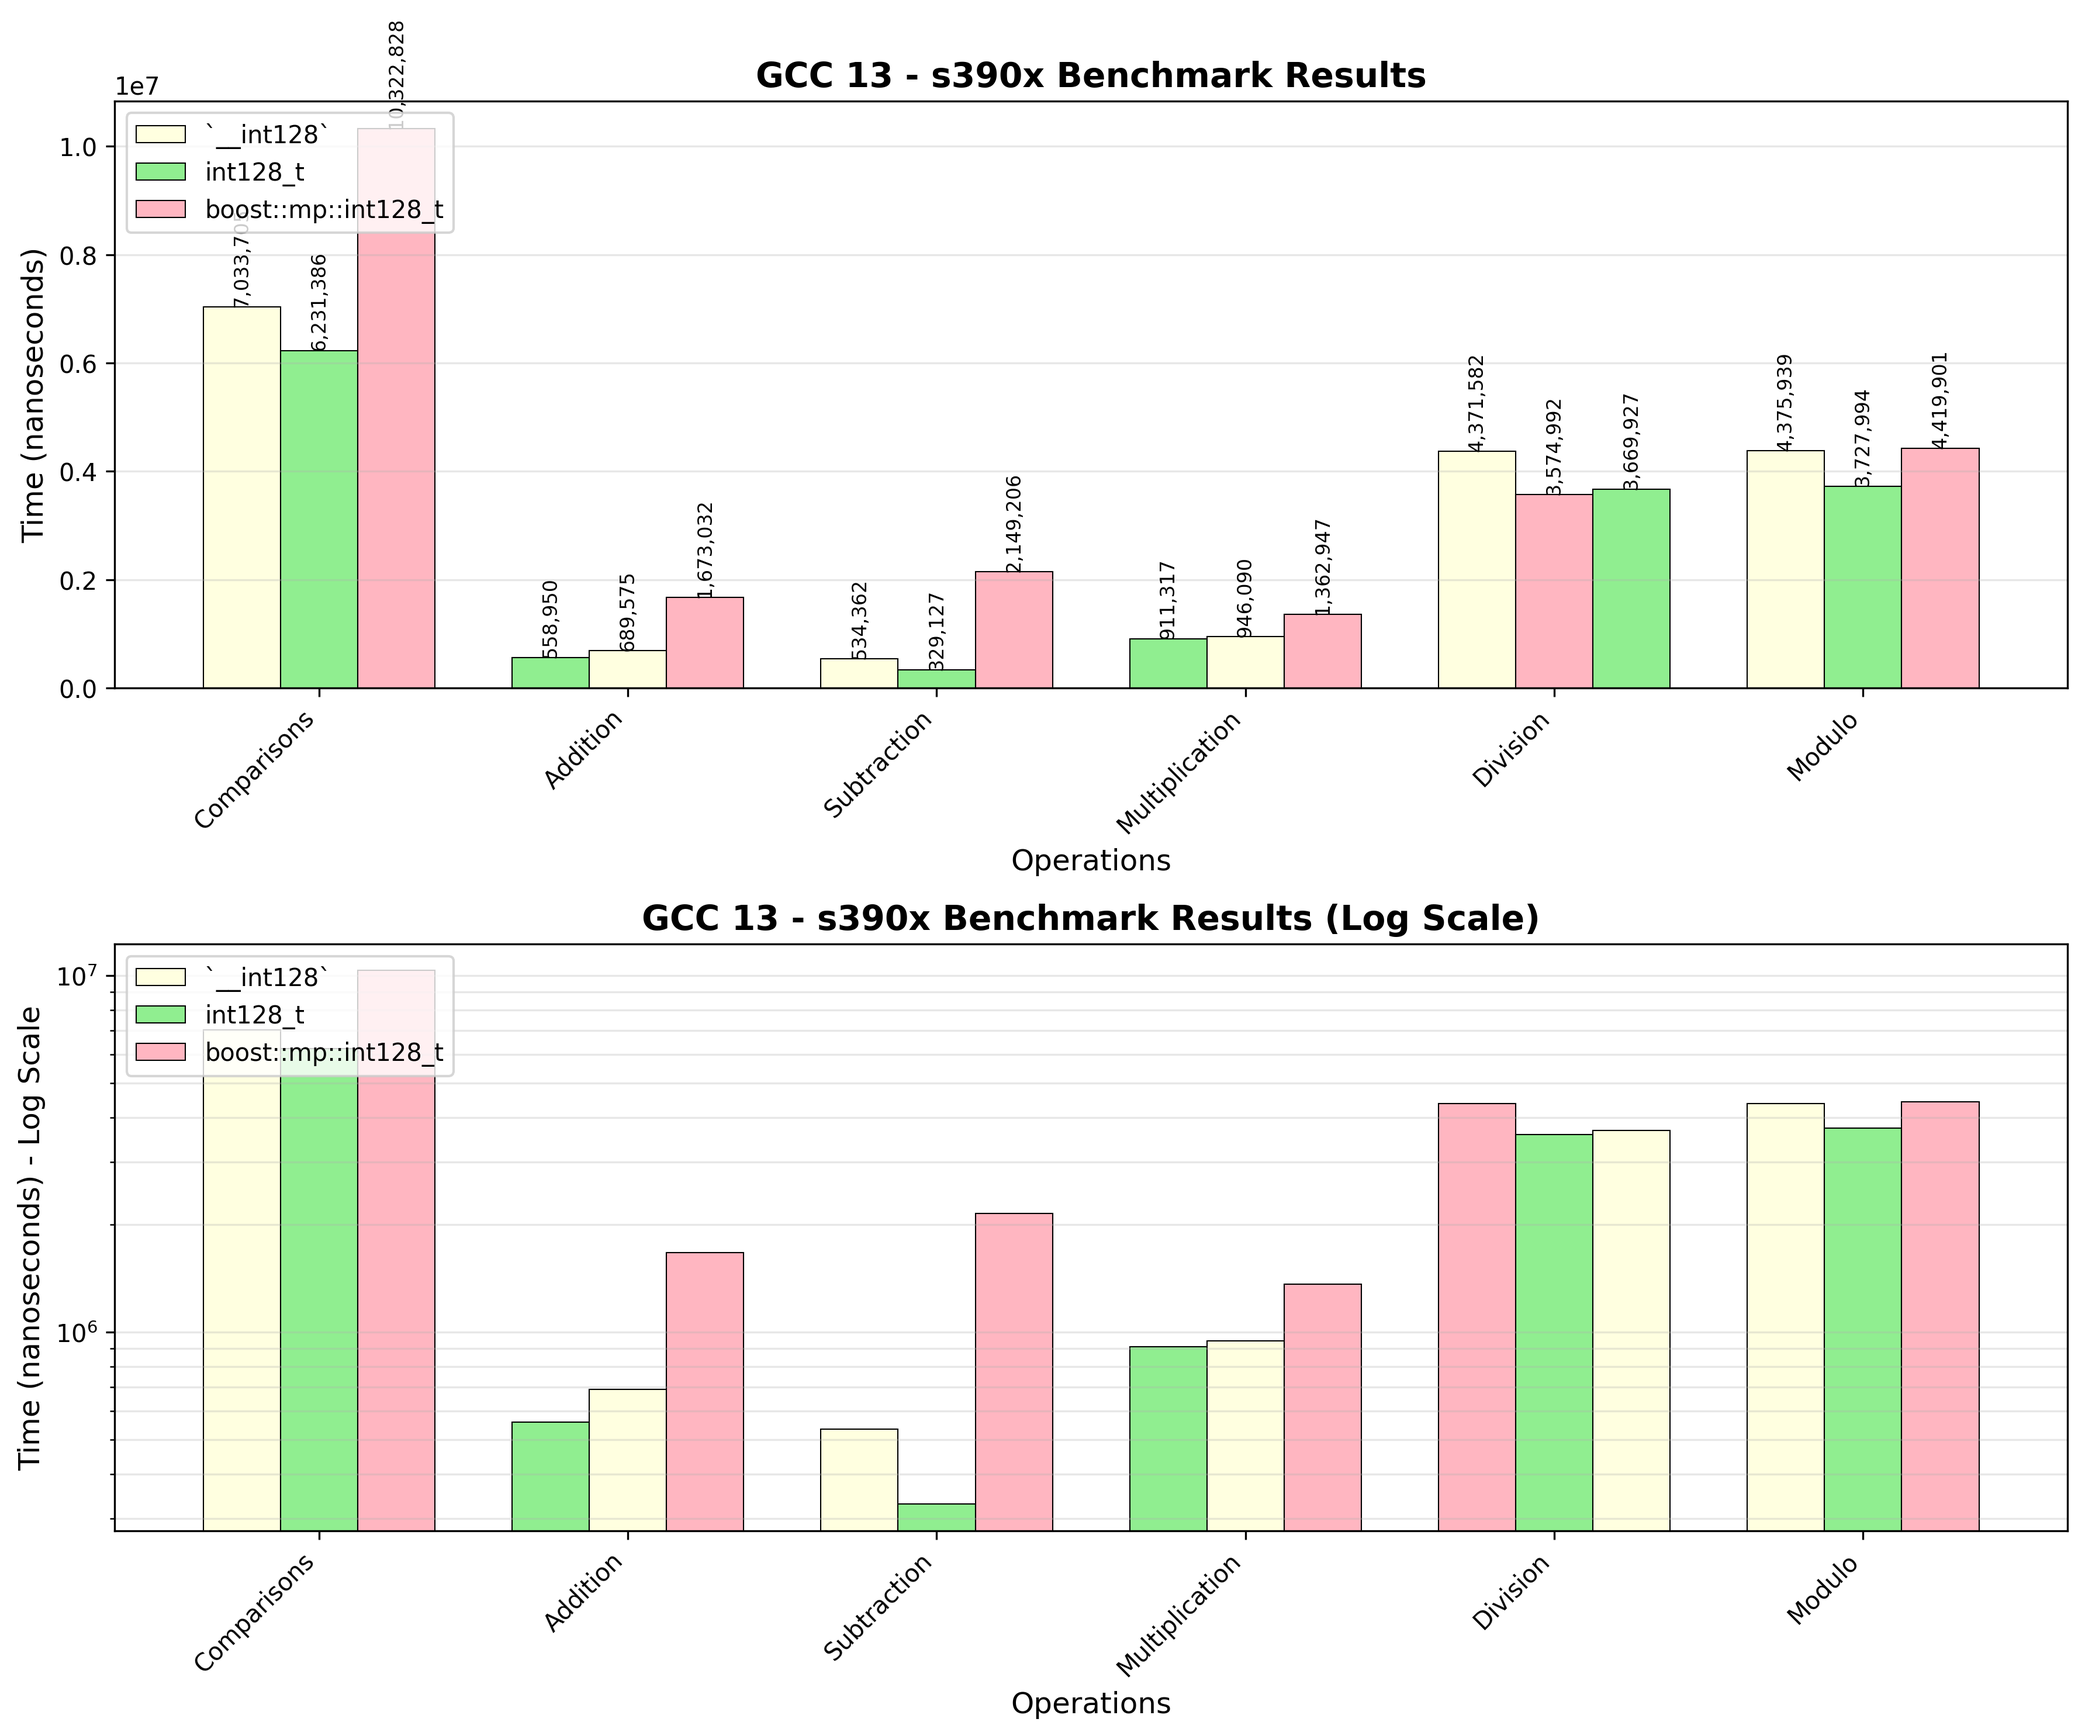
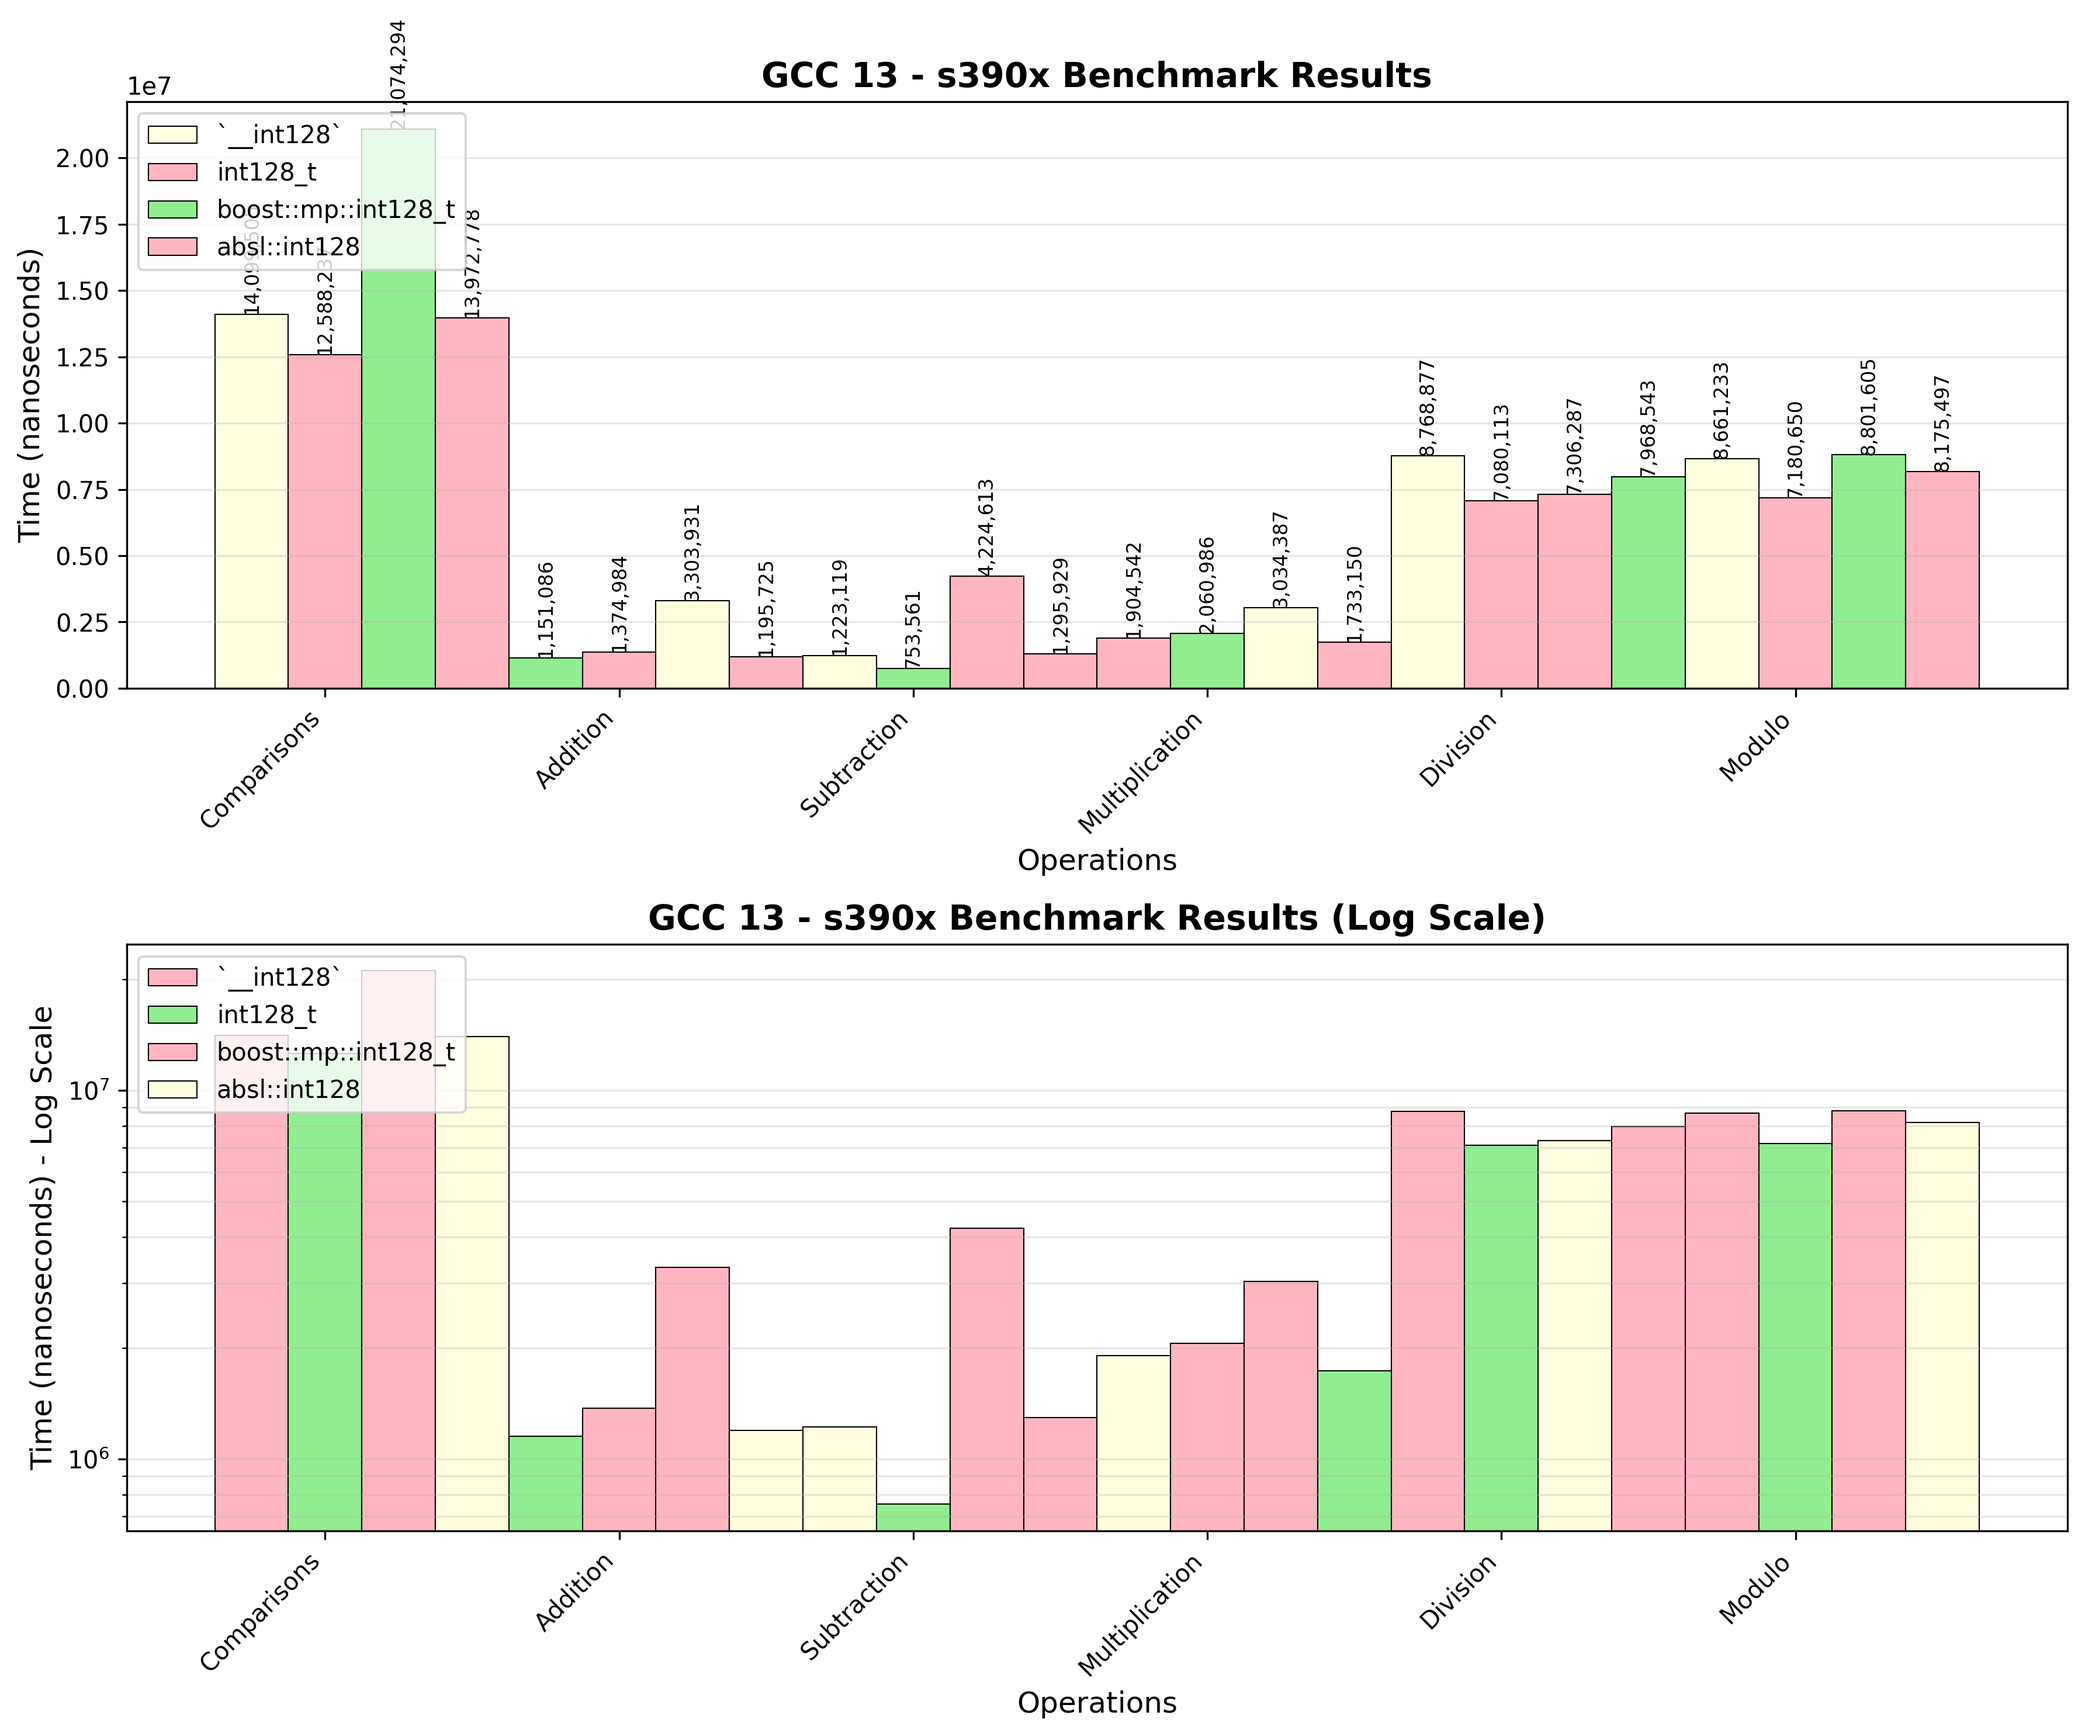
s390x updates

diff --git a/doc/signed_plots.py b/doc/signed_plots.py
@@ -11,7 +11,7 @@ data = {
     'absl::int128': [741269, 92323, 90394, 89558, 1200439, 1293439],
 }
 """
-
+"""
 # Linux ARM64
 data = {
     'Operation': ['Comparisons', 'Addition', 'Subtraction', 'Multiplication', 'Division', 'Modulo'],
@@ -22,14 +22,16 @@ data = {
 }
 
 """
+
 # Linux s390x
 data = {
     'Operation': ['Comparisons', 'Addition', 'Subtraction', 'Multiplication', 'Division', 'Modulo'],
-    '`__int128`': [7033705, 558950, 534362, 911317, 4371582, 4375939],
-    'int128_t': [6231386, 689575, 329127, 946090, 3574992, 3727994],
-    'boost::mp::int128_t': [10322828, 1673032, 2149206, 1362947, 3669927, 4419901]
+    '`__int128`': [14099505, 1151086, 1223119, 1904542, 8768877, 8661233],
+    'int128_t': [12588237, 1374984, 753561, 2060986, 7080113, 7180650],
+    'boost::mp::int128_t': [21074294, 3303931, 4224613, 3034387, 7306287, 8801605],
+    'absl::int128': [13972778, 1195725, 1295929, 1733150, 7968543, 8175497],
 }
-"""
+
 """
 # Linux ppc64le
 data = {
@@ -122,7 +124,7 @@ for i, (idx, row) in enumerate(df.iterrows()):
 
 ax1.set_xlabel('Operations', fontsize=12)
 ax1.set_ylabel('Time (nanoseconds)', fontsize=12)
-ax1.set_title('GCC 13 - ARM64 Benchmark Results', fontsize=14, fontweight='bold')
+ax1.set_title('GCC 13 - s390x Benchmark Results', fontsize=14, fontweight='bold')
 ax1.set_xticks(x)
 ax1.set_xticklabels(operations, rotation=45, ha='right')
 ax1.legend(loc='upper left')
@@ -151,7 +153,7 @@ for i, impl in enumerate(implementations):
 
 ax2.set_xlabel('Operations', fontsize=12)
 ax2.set_ylabel('Time (nanoseconds) - Log Scale', fontsize=12)
-ax2.set_title('GCC 13 - ARM64 Benchmark Results (Log Scale)', fontsize=14, fontweight='bold')
+ax2.set_title('GCC 13 - s390x Benchmark Results (Log Scale)', fontsize=14, fontweight='bold')
 ax2.set_yscale('log')
 ax2.set_xticks(x)
 ax2.set_xticklabels(operations, rotation=45, ha='right')
@@ -159,7 +161,7 @@ ax2.legend(loc='upper left')
 ax2.grid(axis='y', alpha=0.3, which='both')
 
 plt.tight_layout()
-plt.savefig('arm64_benchmarks.png', dpi=300, bbox_inches='tight')
+plt.savefig('s390x_benchmarks.png', dpi=300, bbox_inches='tight')
 plt.show()
 
 # Create a normalized performance chart
@@ -188,7 +190,7 @@ ax3.axhline(y=1.0, color='red', linestyle='--', alpha=0.5, label='`__int128` bas
 
 ax3.set_xlabel('Operations', fontsize=12)
 ax3.set_ylabel('Relative Performance (vs __int128)', fontsize=12)
-ax3.set_title('Relative Performance Comparison - ARM64', fontsize=14, fontweight='bold')
+ax3.set_title('Relative Performance Comparison - s390x', fontsize=14, fontweight='bold')
 ax3.set_xticks(x)
 ax3.set_xticklabels(operations, rotation=45, ha='right')
 ax3.legend()
@@ -199,7 +201,7 @@ ax3.text(0.02, 0.98, 'Lower is better', transform=ax3.transAxes,
          fontsize=10, verticalalignment='top', style='italic')
 
 plt.tight_layout()
-plt.savefig('arm64_relative_performance.png', dpi=300, bbox_inches='tight')
+plt.savefig('s390x_relative_performance.png', dpi=300, bbox_inches='tight')
 plt.show()
 
 # Generate summary statistics
